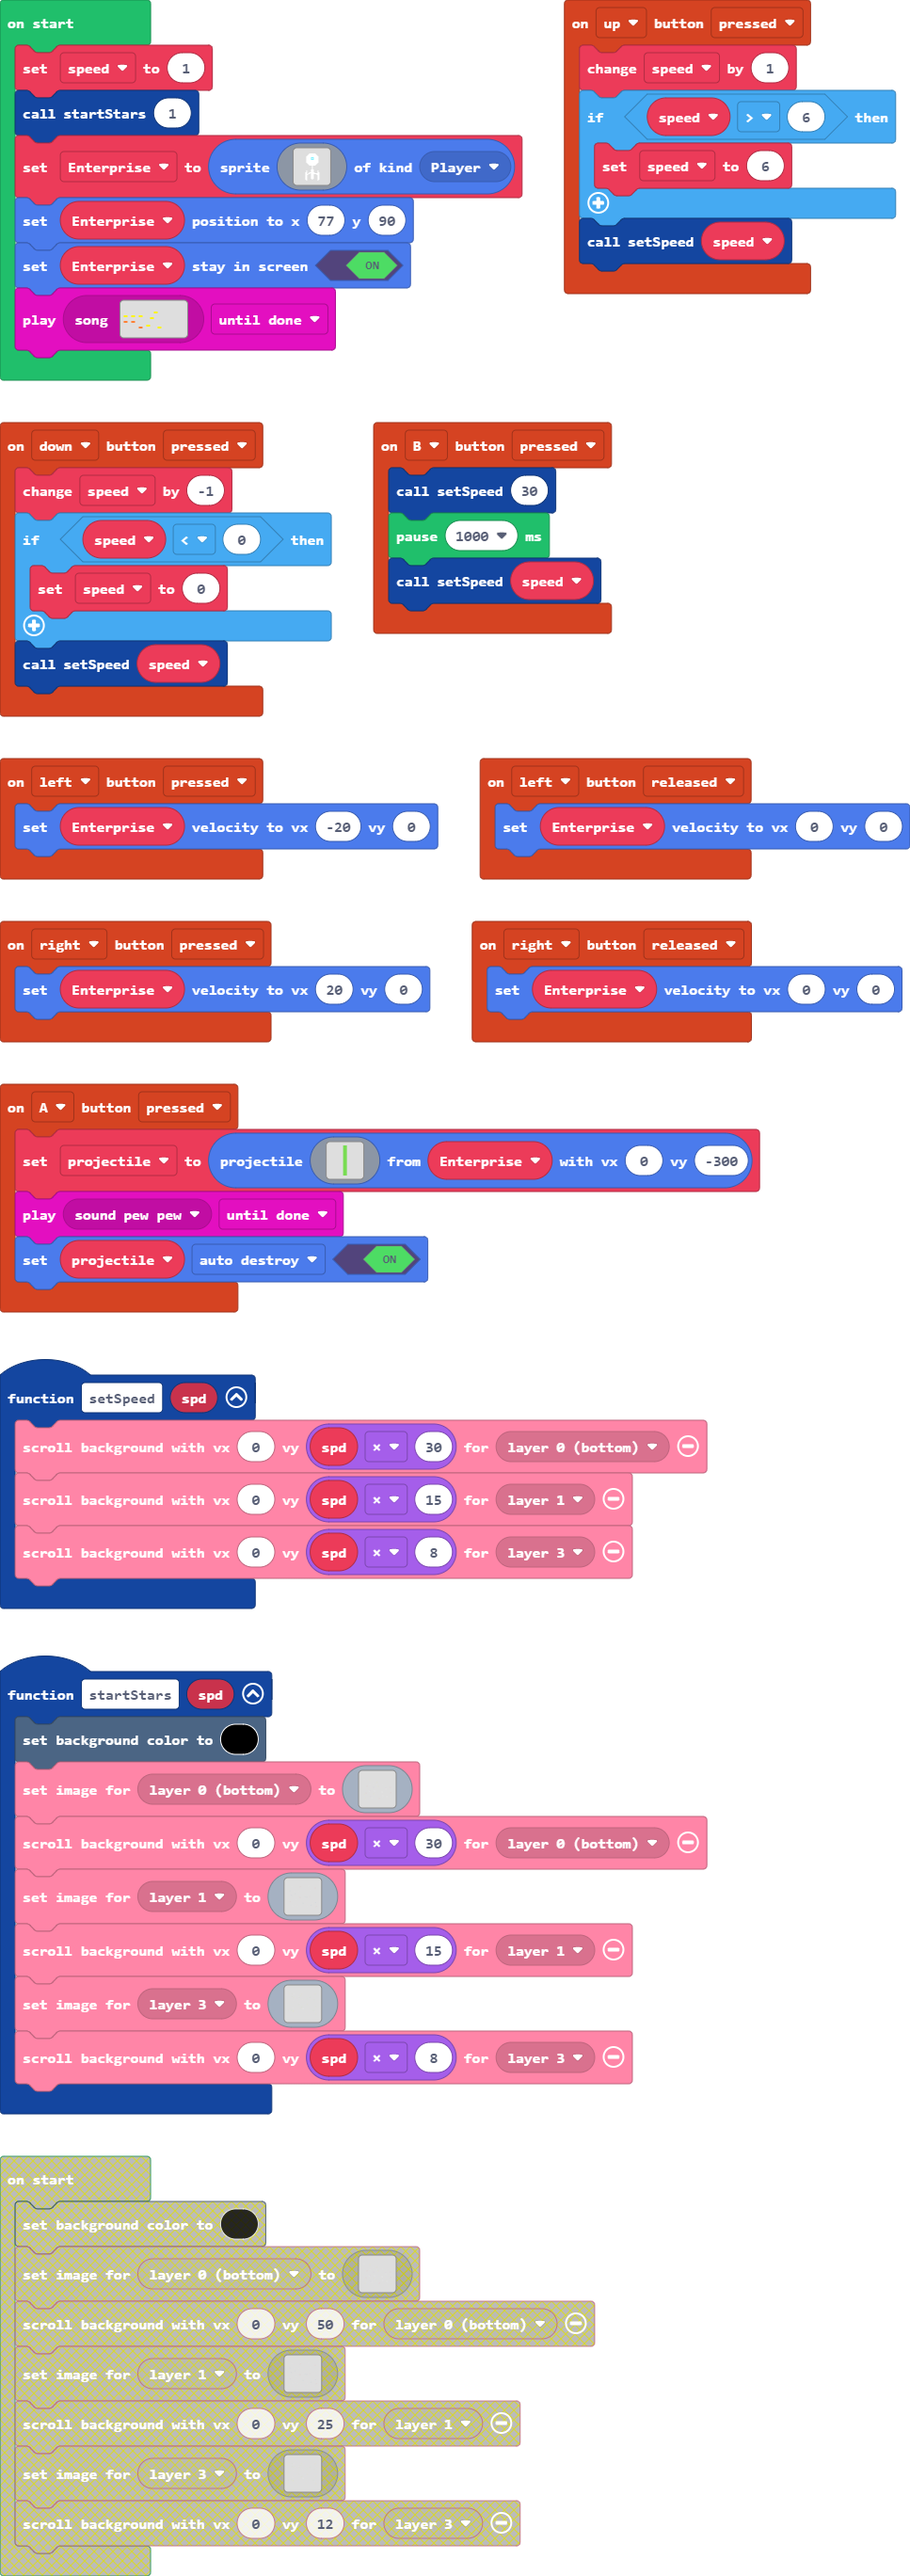
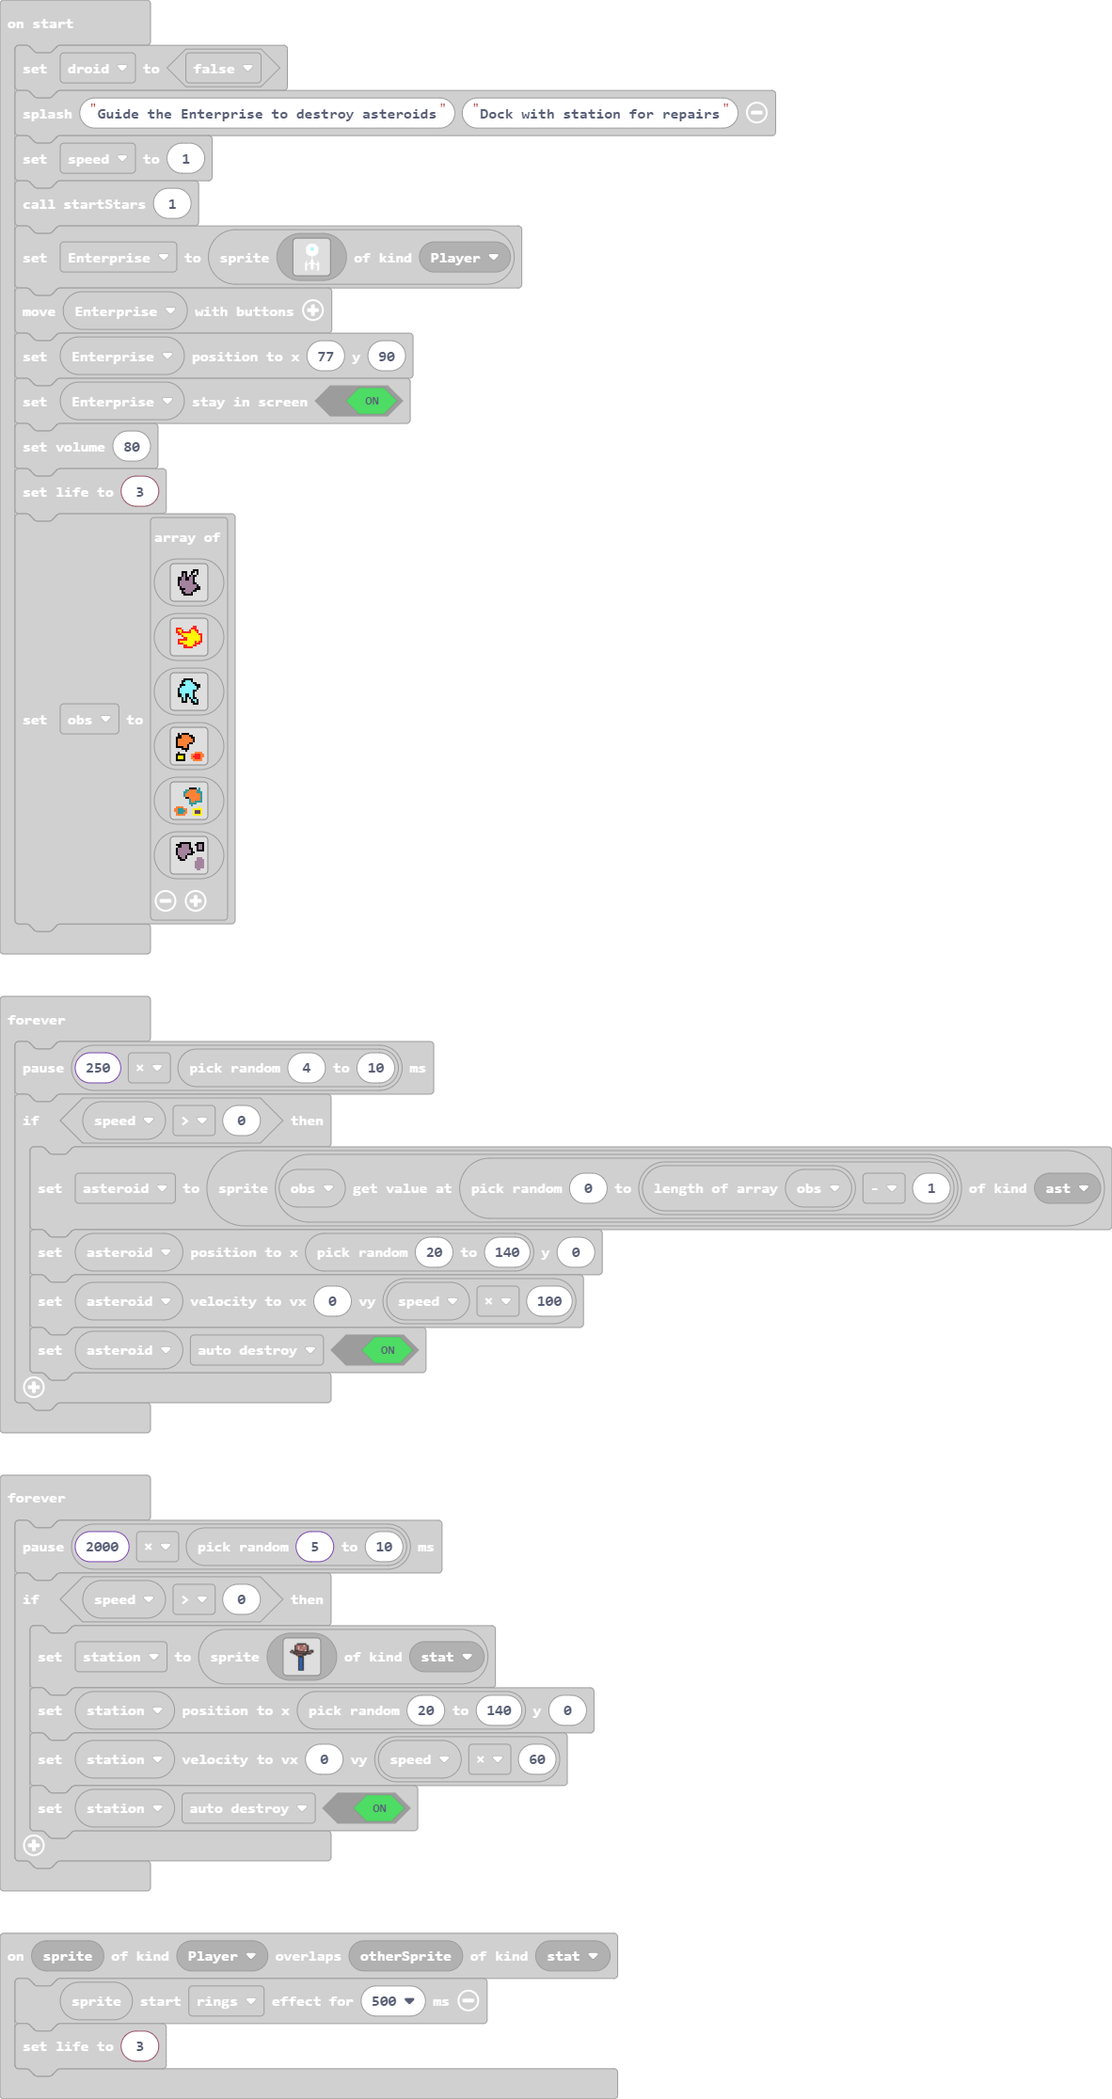
Update main.blocks, main.ts

diff --git a/main.ts b/main.ts
@@ -32,7 +32,7 @@ controller.left.onEvent(ControllerButtonEvent.Pressed, function () {
 })
 sprites.onOverlap(SpriteKind.Player, SpriteKind.stat, function (sprite, otherSprite) {
     sprite.startEffect(effects.rings, 500)
-    info.setLife(10)
+    info.setLife(3)
 })
 controller.right.onEvent(ControllerButtonEvent.Released, function () {
     Enterprise.setVelocity(0, 0)
@@ -457,7 +457,7 @@ controller.moveSprite(Enterprise)
 Enterprise.setPosition(77, 90)
 Enterprise.setStayInScreen(true)
 music.setVolume(80)
-info.setLife(10)
+info.setLife(3)
 let obs = [
 assets.image`rock1`,
 assets.image`rock0`,
@@ -467,7 +467,7 @@ assets.image`rubbld0`,
 assets.image`rubbld1`
 ]
 forever(function () {
-    pause(500 * randint(4, 10))
+    pause(250 * randint(4, 10))
     if (speed > 0) {
         asteroid = sprites.create(obs[randint(0, obs.length - 1)], SpriteKind.ast)
         asteroid.setPosition(randint(20, 140), 0)
@@ -476,7 +476,7 @@ forever(function () {
     }
 })
 forever(function () {
-    pause(1000 * randint(4, 10))
+    pause(2000 * randint(5, 10))
     if (speed > 0) {
         station = sprites.create(assets.image`starbase`, SpriteKind.stat)
         station.setPosition(randint(20, 140), 0)
